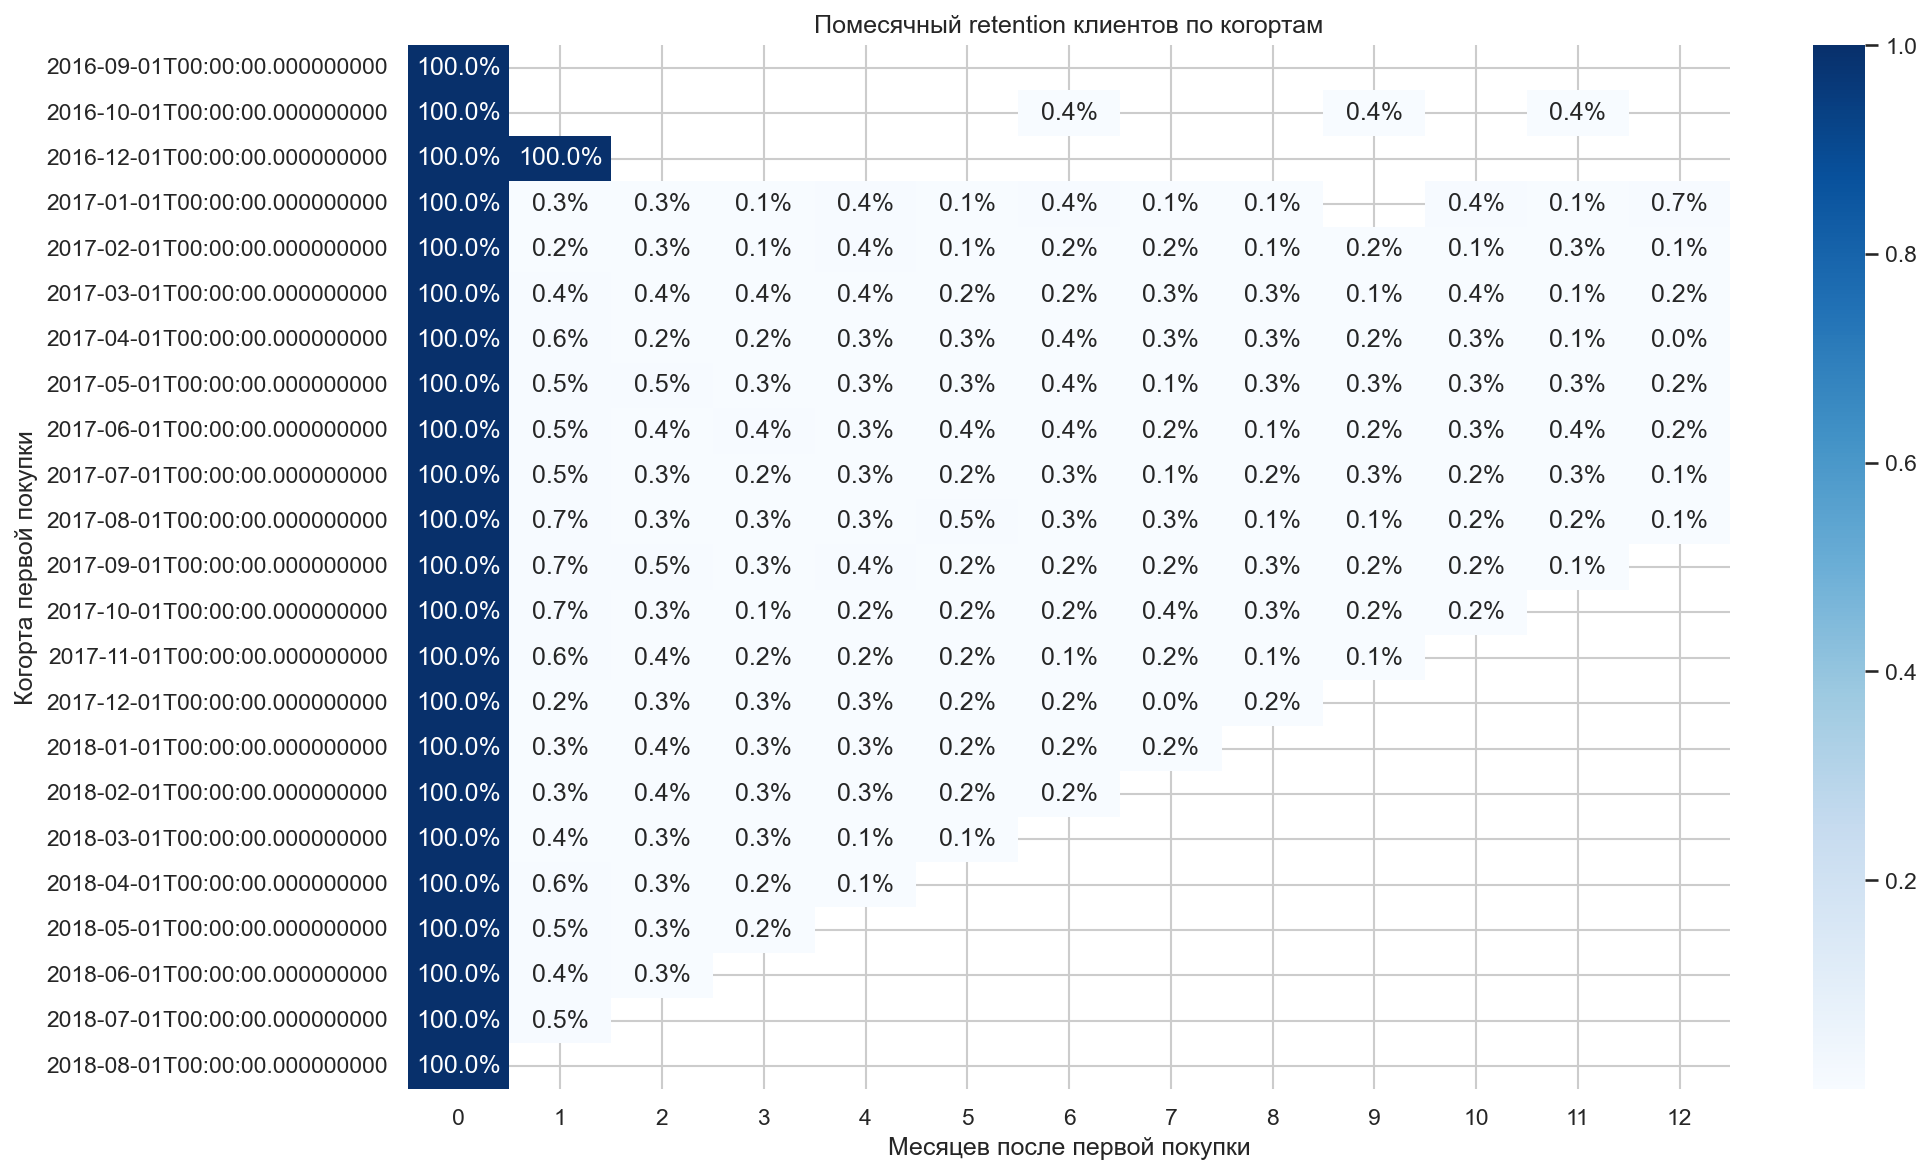
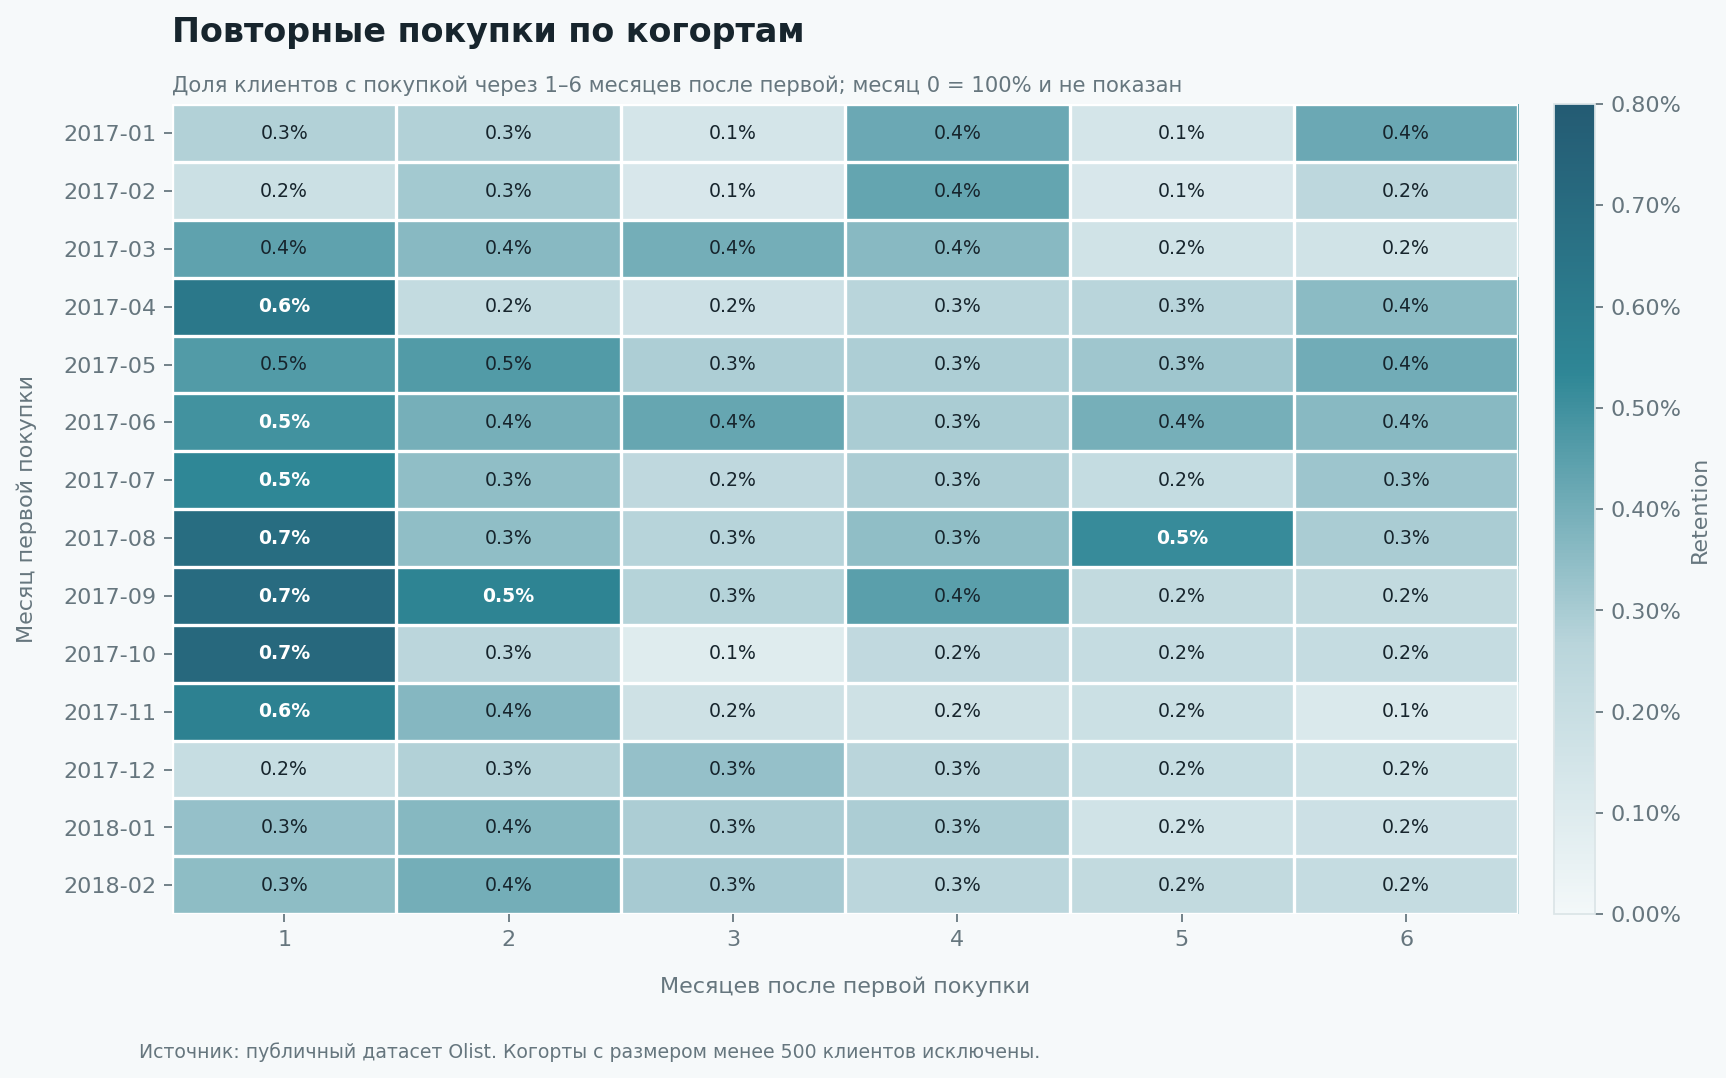
Add retention and delivery dashboard previews

diff --git a/README.md b/README.md
@@ -47,11 +47,17 @@
 
 ## Дашборд
 
-В проекте подготовлены шесть компактных CSV-витрин для DataLens: executive KPI, продажи, категории, retention, RFM, доставка и отзывы.
+В проекте есть три готовых визуальных экрана и шесть компактных CSV-витрин для DataLens: executive KPI, продажи, категории, retention, RFM, доставка и отзывы.
+
+### Retention
+
+![Когортный retention клиентов Olist](reports/figures/cohort_retention.png)
+
+### Доставка и отзывы
 
 ![Связь доставки и отзывов](reports/figures/delivery_reviews.png)
 
-[Открыть витрины и инструкцию DataLens](datalens/README.md)
+[Открыть витрины и инструкцию DataLens](datalens/README.md). Публичная ссылка на DataLens пока отсутствует, поэтому README показывает воспроизводимые статические экраны, построенные из тех же витрин.
 
 ## Данные
 
